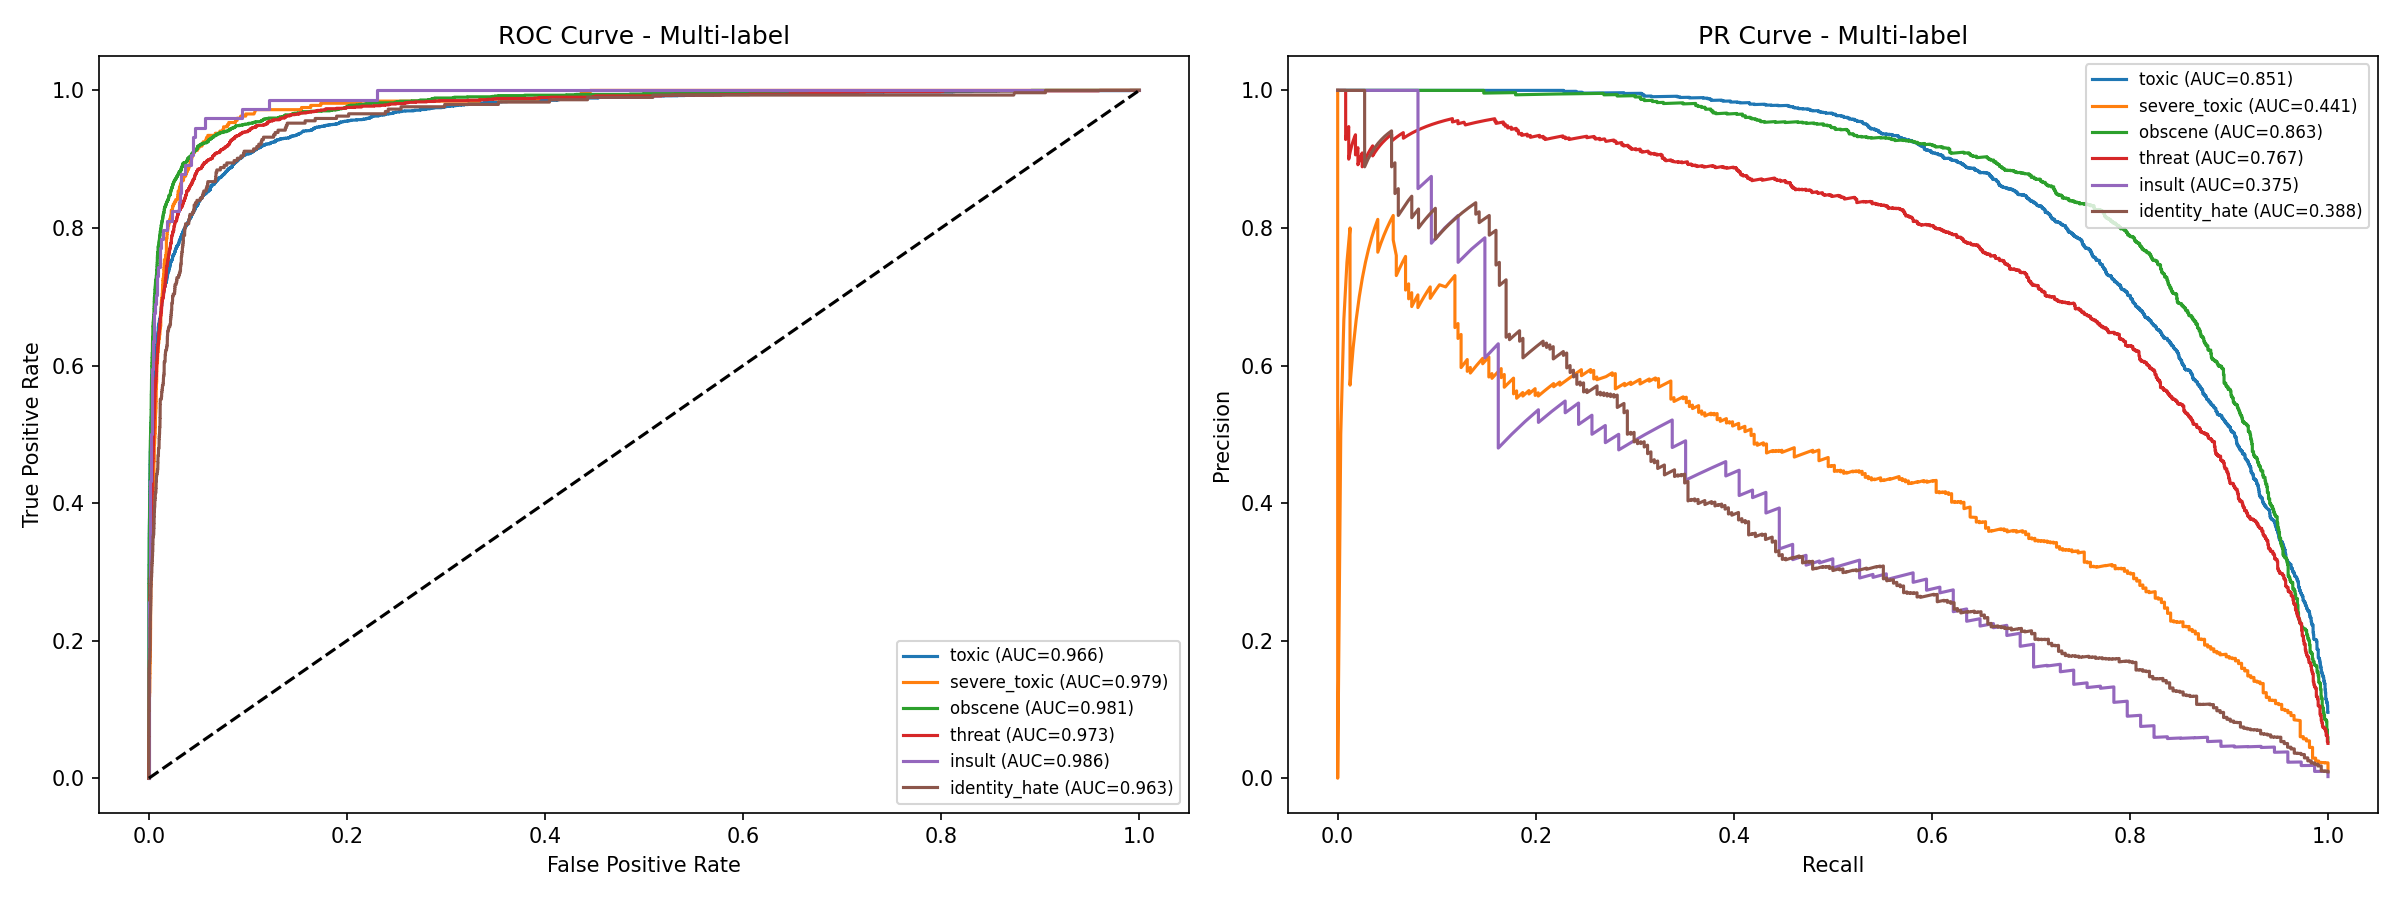
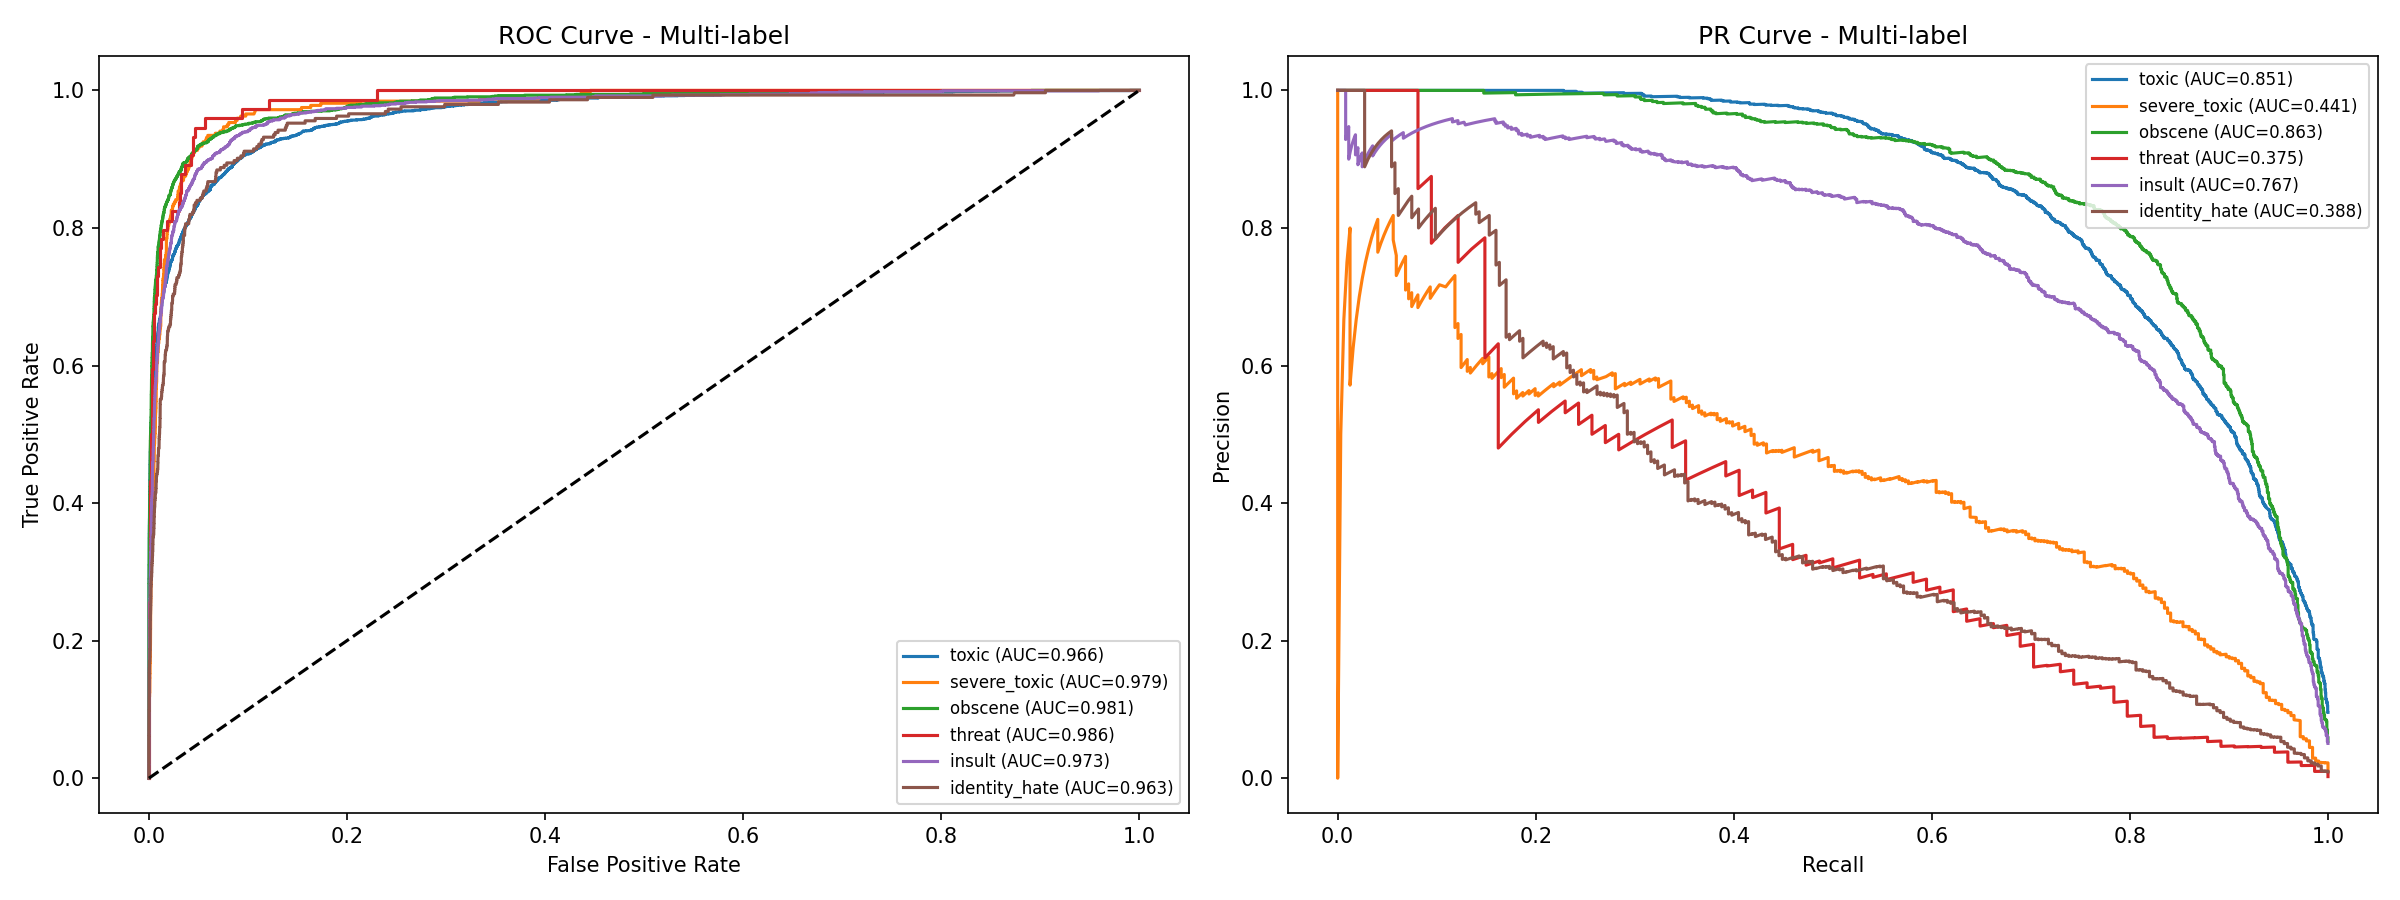
fix: swap support data

diff --git a/src/multi_labels.py b/src/multi_labels.py
@@ -1,6 +1,7 @@
 from sklearn.multiclass import OneVsRestClassifier
 from sklearn.linear_model import LogisticRegression
 from sklearn.metrics import classification_report
+import pandas as pd
 
 def train_multi_labels_model_balanced(X_train, X_test, y_train, y_test):
 
@@ -26,6 +27,16 @@ def train_multi_labels_model(X_train, X_test, y_train, y_test):
 
     y_train_ml = y_train.values
     y_test_ml = y_test.values
+
+    counts = y_test_ml.sum(axis=0)
+    df_check= pd.DataFrame({
+        "label": cols,
+        "count": counts
+    })
+
+    print(df_check.to_string(index=False))
+
+
 
     mlb_model = OneVsRestClassifier(
         LogisticRegression(max_iter=1000)

diff --git a/src/train_test_split.py b/src/train_test_split.py
@@ -25,7 +25,7 @@ def load_data_multi_label():
     df["clean_text"] = df["clean_text"].astype(str)
 
     X = df["clean_text"]
-    y = df[["toxic", "severe_toxic", "obscene", "insult", "threat", "identity_hate"]]
+    y = df[["toxic", "severe_toxic", "obscene", "threat", "insult", "identity_hate"]]
     
 
     X_train, X_test, y_train, y_test = train_test_split(

diff --git a/src/preprocess.py b/src/preprocess.py
@@ -34,3 +34,4 @@ print(df.columns)
 df = df.to_csv("data/processed/clean_train.csv", index=False)
 
 
+